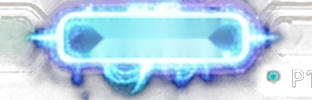
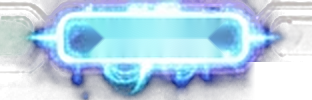
hud-v3: clear the target's baked plate text from pill_on.png (stray P1 by the name plate), keep card bottoms on screen

Changed region(s): [[0.7788, 0.6, 1.0, 0.9], [0.9519, 0.96, 0.9808, 0.99]]

diff --git a/Source/ZoogiRoll/Private/ZoogiCardHandWidget.cpp b/Source/ZoogiRoll/Private/ZoogiCardHandWidget.cpp
@@ -362,7 +362,7 @@ void UZoogiCardHandWidget::NativeTick(const FGeometry& Geo, float Dt)
 		Sc0 = FMath::Clamp((TB - TT - 24.f * FL.T * k) / UZoogiCardWidget::CardH, 0.45f, 1.3f); // shorter: the fan sits down in the recess with less overlap
 		const float Avail = HX1 - HX0 - 20.f * FL.T * k;
 		Spacing = FMath::Min(UZoogiCardWidget::CardW * Sc0 * 1.06f, (Avail - UZoogiCardWidget::CardW * Sc0) / FMath::Max(N - 1, 1));
-		BaseY = TB + 8.f * FL.T * k; ArcK = 1.f; TiltK = 2.5f; HoverSc = Sc0 * 1.1f; HoverY = TB; Spread = Sc0 * 0.5f;
+		BaseY = TB - 7.f * FL.T * k; ArcK = 1.f; // card bottoms stay on screen TiltK = 2.5f; HoverSc = Sc0 * 1.1f; HoverY = TB; Spread = Sc0 * 0.5f;
 		FanCX = (HX0 + HX1) * 0.5f;
 		FramedFanL = FanCX - ((N - 1) * Spacing + UZoogiCardWidget::CardW * Sc0) * 0.5f;
 	}

diff --git a/Scripts/ui/hudv3/fix_pill_on.py b/Scripts/ui/hudv3/fix_pill_on.py
@@ -1,0 +1,9 @@
+# hud-v3: pill_on.png was cut from the target with the plate's "• P1" text in its bottom-right corner; clear it.
+import numpy as np
+from PIL import Image
+p = 'w/Content/Data/HudV3/pill_on.png'
+a = np.array(Image.open(p).convert('RGBA'))
+a[62:100, 255:312, 3] = 0
+# soft edge so the glow doesn't end in a hard line
+for i, x in enumerate(range(245, 255)): a[62:100, x, 3] = (a[62:100, x, 3] * (1 - (i + 1) / 11)).astype(np.uint8)
+Image.fromarray(a).save(p); print('ok')
